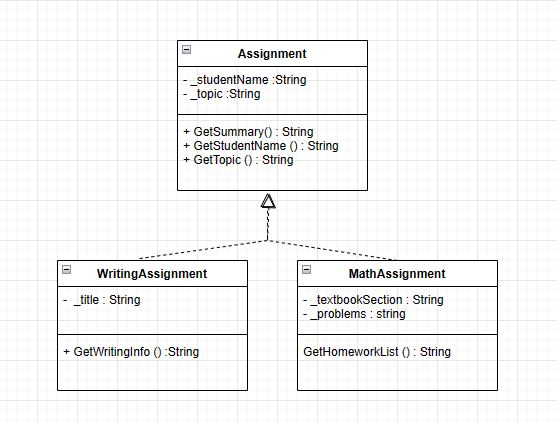
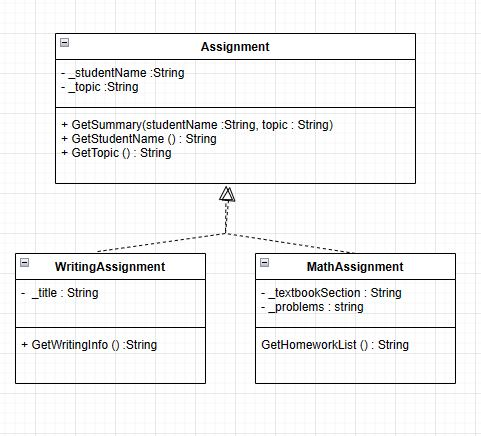
wrote code to test assignment

Changed region(s): [[0.0312, 0.0615, 0.9667, 0.922], [0.842, 0.2151, 0.8732, 0.2766], [0.8732, 0.6761, 0.9044, 0.7069]]

diff --git a/prepare/Learning04/Assignment.cs b/prepare/Learning04/Assignment.cs
@@ -7,9 +7,12 @@ namespace Learning04
     private string _studentName;
     private string _topic;
 
-    public string GetSummary ()
+    public void GetSummary (string studentName, string topic)
     {
-        return $"{_studentName} - {_topic}";
+        _studentName = studentName;
+        _topic = topic;
+
+        Console.WriteLine ($"{_studentName} - {_topic}");
     }
 
     public string GetName ()

diff --git a/prepare/Learning04/Program.cs b/prepare/Learning04/Program.cs
@@ -8,6 +8,9 @@ class Program
     static void Main(string[] args)
     {
         Console.WriteLine("Hello Learning04 World!");
+        Assignment newAssignment = new Assignment();
+
+        newAssignment.GetSummary ("Samuel Bennett", "Multiplication");
     }
 }
 }
